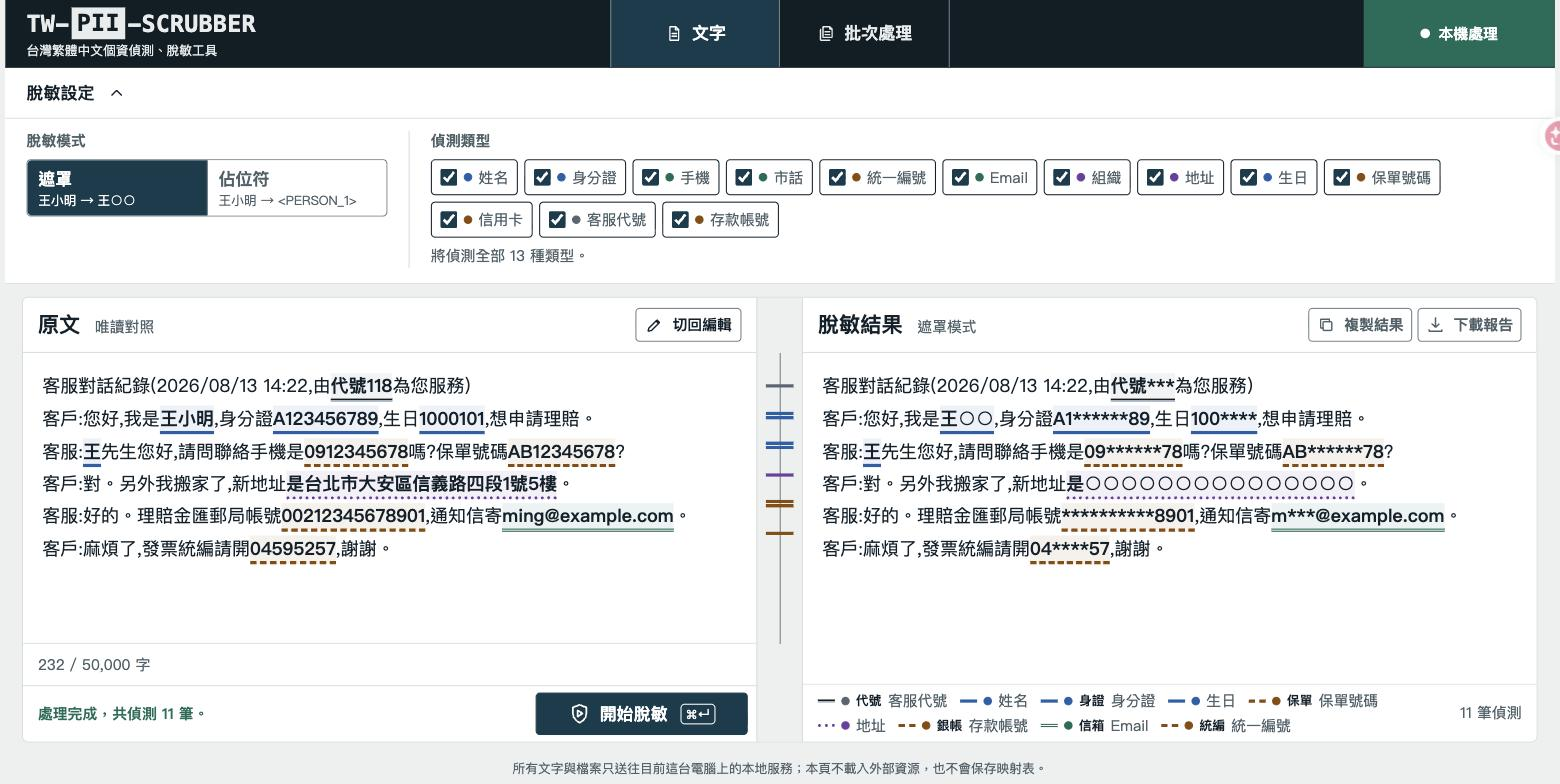
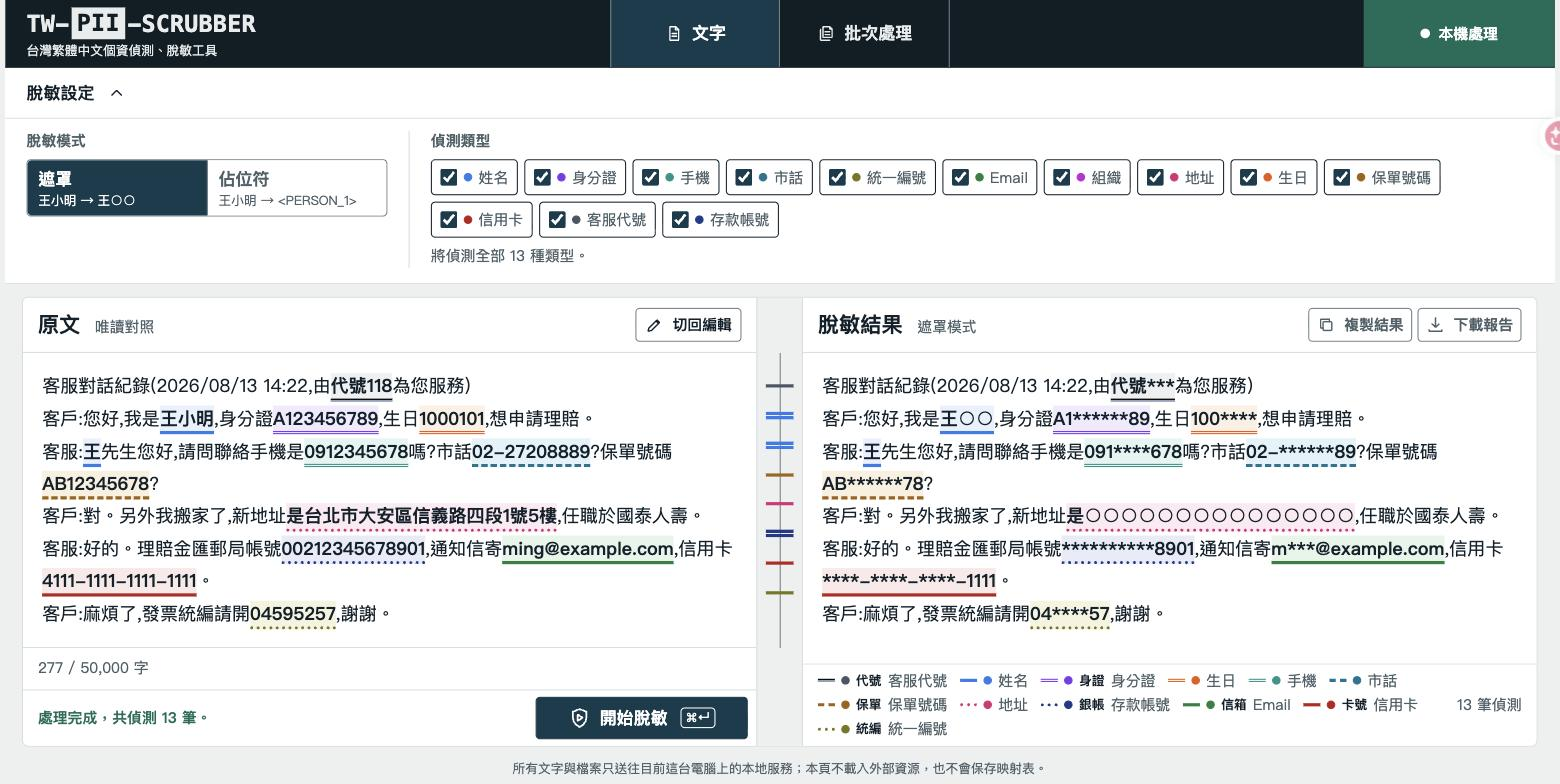
style: 13 種偵測類型改為各自專屬色,並提亮至更易辨識
原本 5 群組共用色,圖例 13 條卻只有 5 色,實際使用難以對應。
改為每型一色:全部提亮(色點/底線/刻度為圖形,守 WCAG 非文字 3:1),
以 CIELAB 驗證兩兩最小色差 ΔE=22.7(>20 為可辨),對比 3.19-10.36:1。
線型維持第二重編碼且在鄰近色相間錯開(solid/double/dashed/dotted/
groove)。承載白字的介面色(本機封條、映射表按鈕)不隨之提亮,
維持 6.45/6.80:1。

Claude-Session: https://claude.ai/code/session_01ViYkuNn7Dy82AmFSgEFuRx

diff --git a/static/index.html b/static/index.html
@@ -18,15 +18,15 @@
       --rule-strong: #6F8189;
       --action: #123C4E;
       --action-hi: #1B5570;
-      --local: #0B6B57;
-      --confidential: #8A4B00;
+      --local: #0B6B57;        /* 白字 6.45:1 — 承載文字,不隨資料色提亮 */
+      --confidential: #8A4B00; /* 白字 6.80:1 — 承載文字,不隨資料色提亮 */
       --alert: #A32C24;
       --focus: #123C4E;
-      --entity-identity: #1F5FA8;
-      --entity-contact: #0B6B57;
-      --entity-finance: #8A4B00;
-      --entity-place: #6B3FA0;
-      --entity-internal: #5A6570;
+      --entity-identity: #2B7CE9;
+      --entity-contact: #0D9488;
+      --entity-finance: #D97706;
+      --entity-place: #8B5CF6;
+      --entity-internal: #7A8798;
       --ink-soft: var(--ink-2);
       --canvas-deep: var(--canvas);
       --line: var(--rule);
@@ -2561,22 +2561,22 @@
     const MAX_TEXT_LENGTH = 50000;
     const MAX_BATCH_FILES = 20;
     const ENTITY_STYLES = Object.freeze({
-      PERSON: { group: '身分', line: 'solid', code: '姓名', label: '自然人姓名', background: '#EDF2F8', border: '#1F5FA8' },
-      TW_NATIONAL_ID: { group: '身分', line: 'solid', code: '身證', label: '身分證字號', background: '#EDF2F8', border: '#1F5FA8' },
-      BIRTHDAY: { group: '身分', line: 'solid', code: '生日', label: '出生日期', background: '#EDF2F8', border: '#1F5FA8' },
-      TW_MOBILE: { group: '聯絡', line: 'double', code: '手機', label: '手機號碼', background: '#EBF3F2', border: '#0B6B57' },
-      TW_PHONE: { group: '聯絡', line: 'double', code: '市話', label: '市內電話', background: '#EBF3F2', border: '#0B6B57' },
-      EMAIL_ADDRESS: { group: '聯絡', line: 'double', code: '信箱', label: '電子郵件', background: '#EBF3F2', border: '#0B6B57' },
-      CREDIT_CARD: { group: '金融', line: 'dashed', code: '卡號', label: '信用卡號', background: '#F6F1EB', border: '#8A4B00' },
-      TW_BANK_ACCOUNT: { group: '金融', line: 'dashed', code: '銀帳', label: '銀行帳號', background: '#F6F1EB', border: '#8A4B00' },
-      TW_UBN: { group: '金融', line: 'dashed', code: '統編', label: '統一編號', background: '#F6F1EB', border: '#8A4B00' },
-      TW_POLICY_NO: { group: '金融', line: 'dashed', code: '保單', label: '保單號碼', background: '#F6F1EB', border: '#8A4B00' },
-      ORG: { group: '組織地點', line: 'dotted', code: '機構', label: '機構名稱', background: '#F3F0F7', border: '#6B3FA0' },
-      LOC: { group: '組織地點', line: 'dotted', code: '地址', label: '地址地點', background: '#F3F0F7', border: '#6B3FA0' },
-      AGENT_CODE: { group: '內部', line: 'groove', code: '代號', label: '客服人員代號', background: '#F2F3F4', border: '#5A6570' },
+      PERSON: { group: '身分', line: 'solid', code: '姓名', label: '自然人姓名', background: '#E9F1FD', border: '#2B7CE9' },
+      TW_NATIONAL_ID: { group: '身分', line: 'double', code: '身證', label: '身分證字號', background: '#F1EAFE', border: '#7C3AED' },
+      BIRTHDAY: { group: '身分', line: 'double', code: '生日', label: '出生日期', background: '#FDEFE4', border: '#EA580C' },
+      TW_MOBILE: { group: '聯絡', line: 'double', code: '手機', label: '手機號碼', background: '#E2F5F2', border: '#0D9488' },
+      TW_PHONE: { group: '聯絡', line: 'dashed', code: '市話', label: '市內電話', background: '#E2F2F7', border: '#0E7490' },
+      EMAIL_ADDRESS: { group: '聯絡', line: 'solid', code: '信箱', label: '電子郵件', background: '#E6F4EA', border: '#15803D' },
+      CREDIT_CARD: { group: '金融', line: 'solid', code: '卡號', label: '信用卡號', background: '#FCE9E9', border: '#B91C1C' },
+      TW_BANK_ACCOUNT: { group: '金融', line: 'dotted', code: '銀帳', label: '銀行帳號', background: '#E8ECF7', border: '#1E3A8A' },
+      TW_UBN: { group: '金融', line: 'dotted', code: '統編', label: '統一編號', background: '#F4F4DF', border: '#77761A' },
+      TW_POLICY_NO: { group: '金融', line: 'dashed', code: '保單', label: '保單號碼', background: '#F9F1DF', border: '#A16207' },
+      ORG: { group: '組織地點', line: 'dashed', code: '機構', label: '機構名稱', background: '#FBE9FD', border: '#C026D3' },
+      LOC: { group: '組織地點', line: 'dotted', code: '地址', label: '地址地點', background: '#FDE9F2', border: '#DB2777' },
+      AGENT_CODE: { group: '內部', line: 'groove', code: '代號', label: '客服人員代號', background: '#EEF0F2', border: '#4B5563' },
       // 檔案批次的「整欄遮罩」策略產生的 finding(後端 entity_type)
-      COLUMN_MASK: { group: '內部', line: 'groove', code: '整欄', label: '整欄遮罩', background: '#F2F3F4', border: '#5A6570' },
-      DEFAULT: { group: '其他', line: 'groove', code: '其他', label: '未知類型', background: '#F2F3F4', border: '#5A6570' }
+      COLUMN_MASK: { group: '內部', line: 'groove', code: '整欄', label: '整欄遮罩', background: '#EEF0F2', border: '#4B5563' },
+      DEFAULT: { group: '其他', line: 'groove', code: '其他', label: '未知類型', background: '#EEF0F2', border: '#4B5563' }
     });
 
     const state = {

diff --git a/README.md b/README.md
@@ -31,7 +31,7 @@
 - **鐵律:任何資料不得離開本機。執行期不呼叫任何外部 API、無 CDN、無遙測。**
   (連 FastAPI 內建 /docs 都停用了——swagger-ui 走 CDN。)
 
-![文字脫敏:左右對照、中央稽核軸標示每筆個資位置、依群組分色與線型高亮](assets/screenshot-text.jpg)
+![文字脫敏:左右對照、中央稽核軸標示每筆個資位置、13 種類型各有專屬色與線型](assets/screenshot-text.jpg)
 
 ![批次處理:多檔逐一處理、失敗隔離、entity 統計與 ZIP 打包下載](assets/screenshot-batch.jpg)
 
